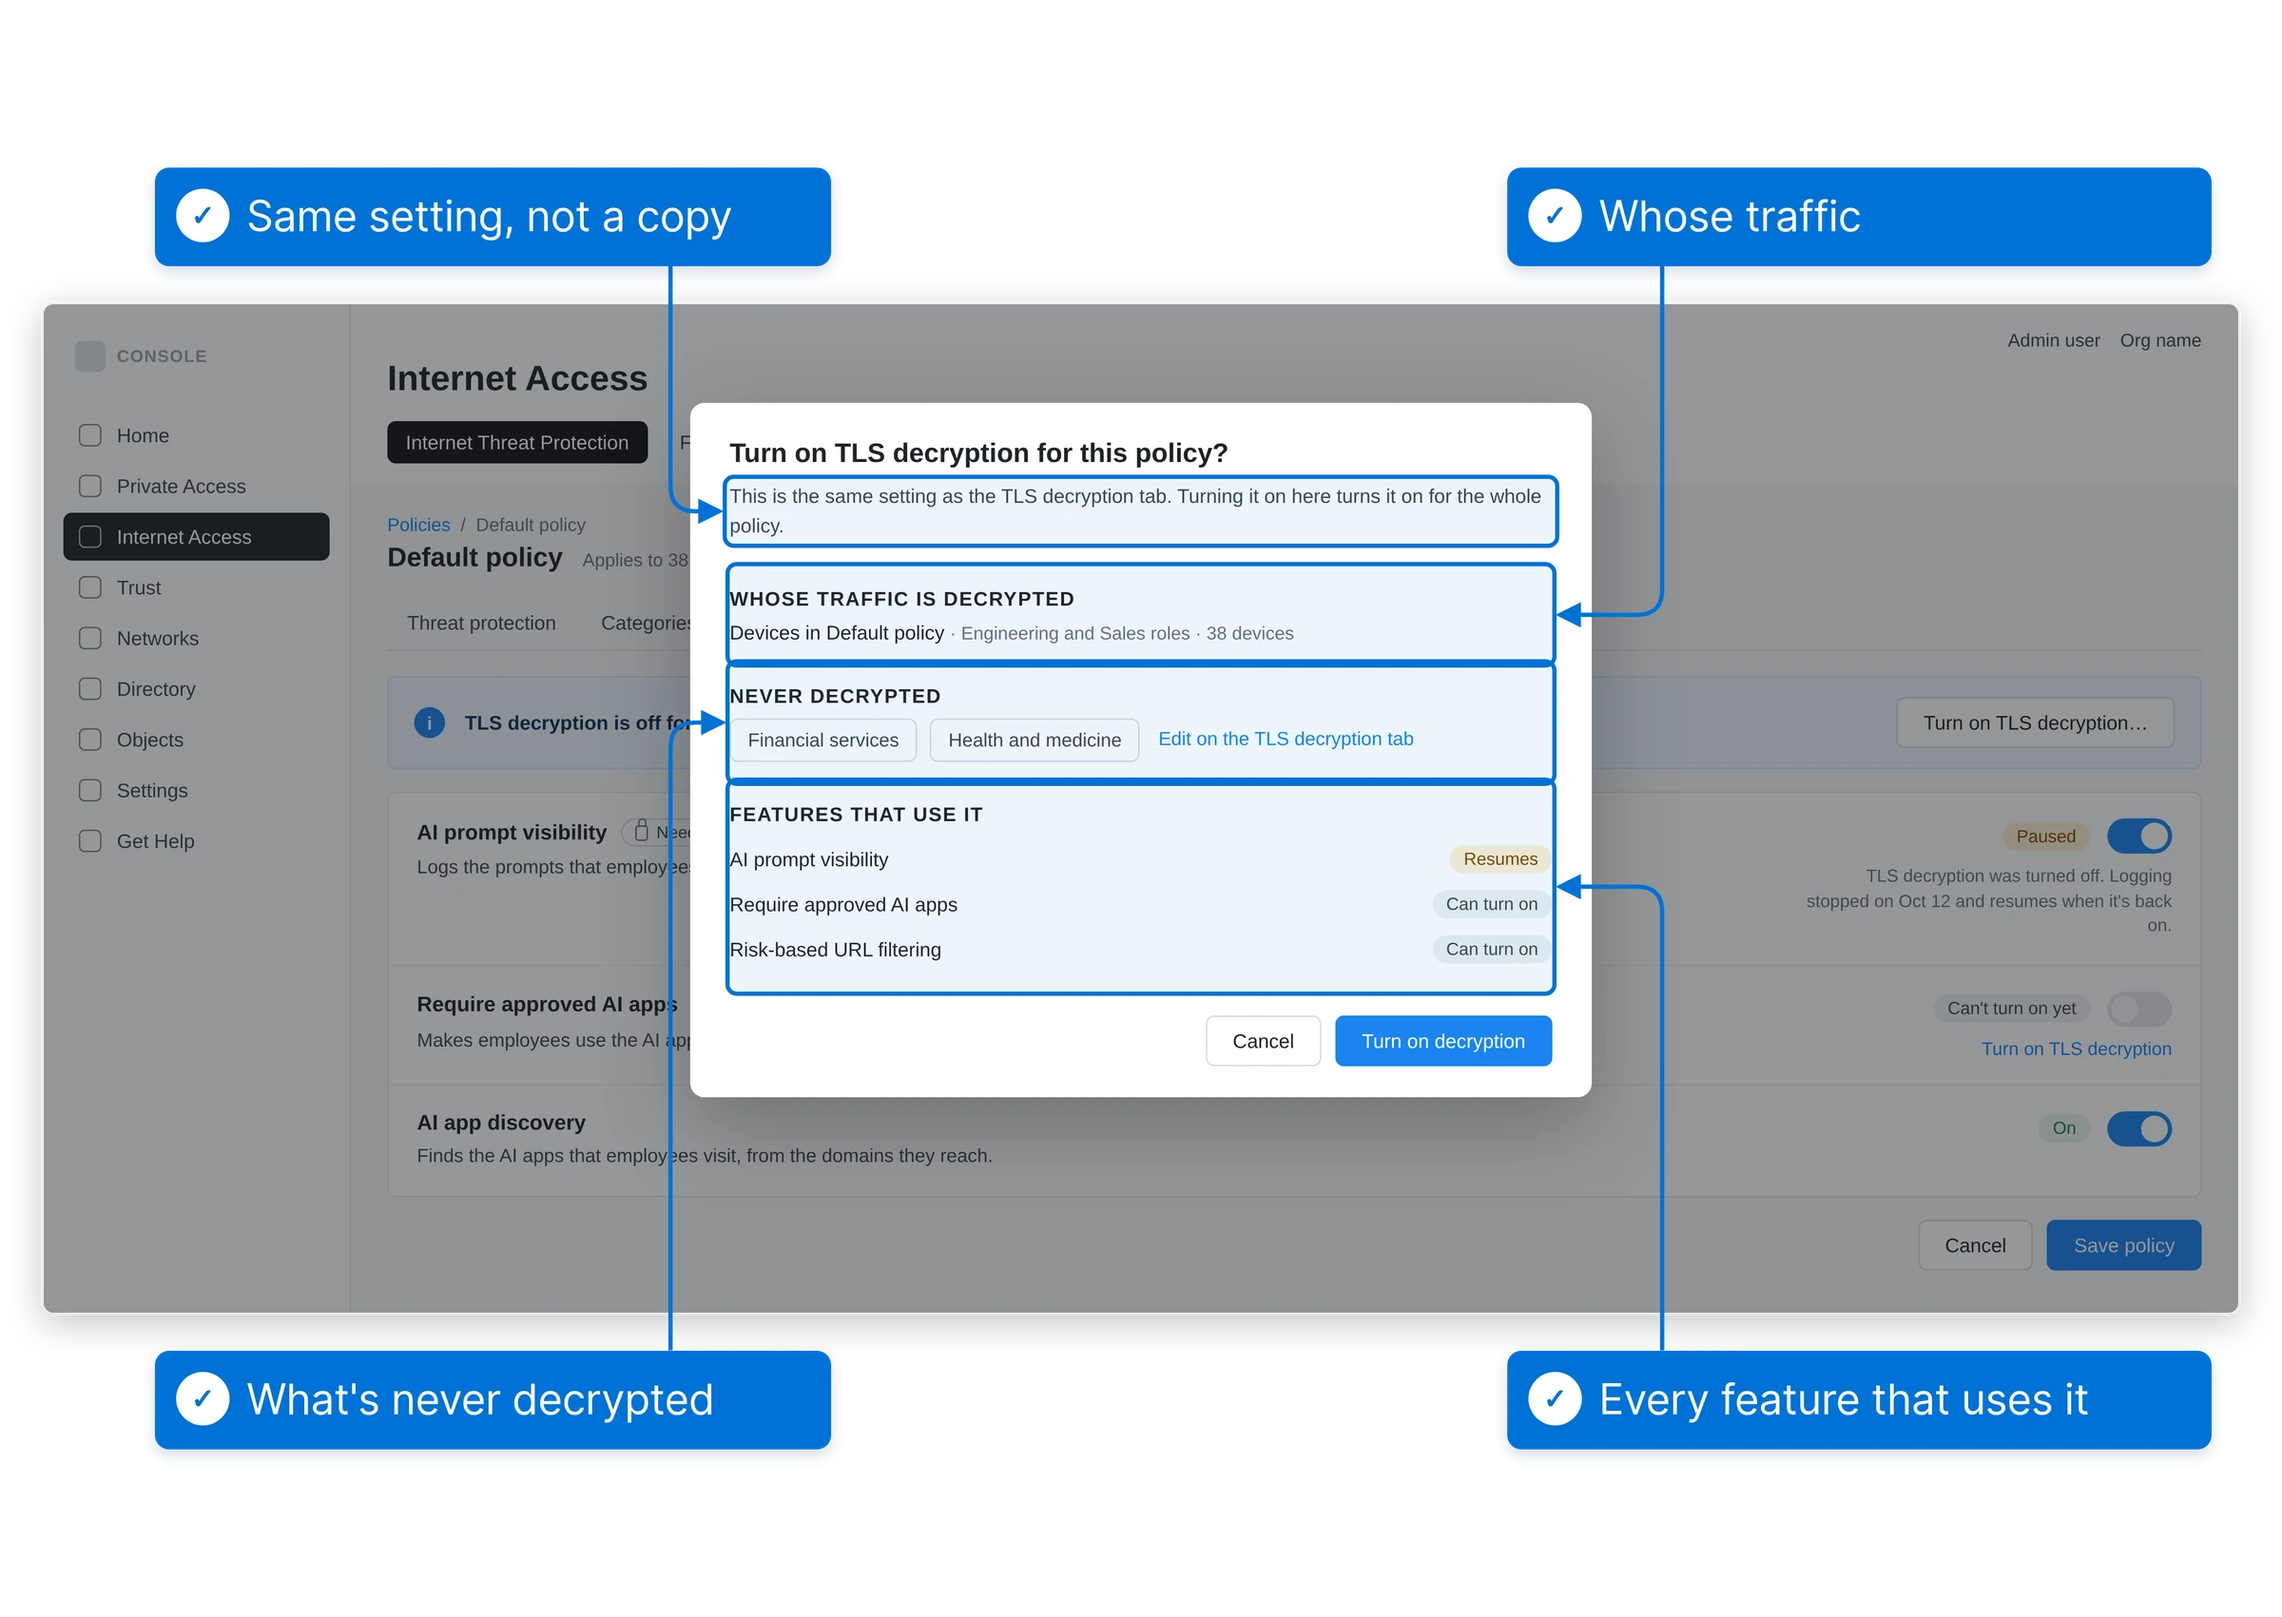
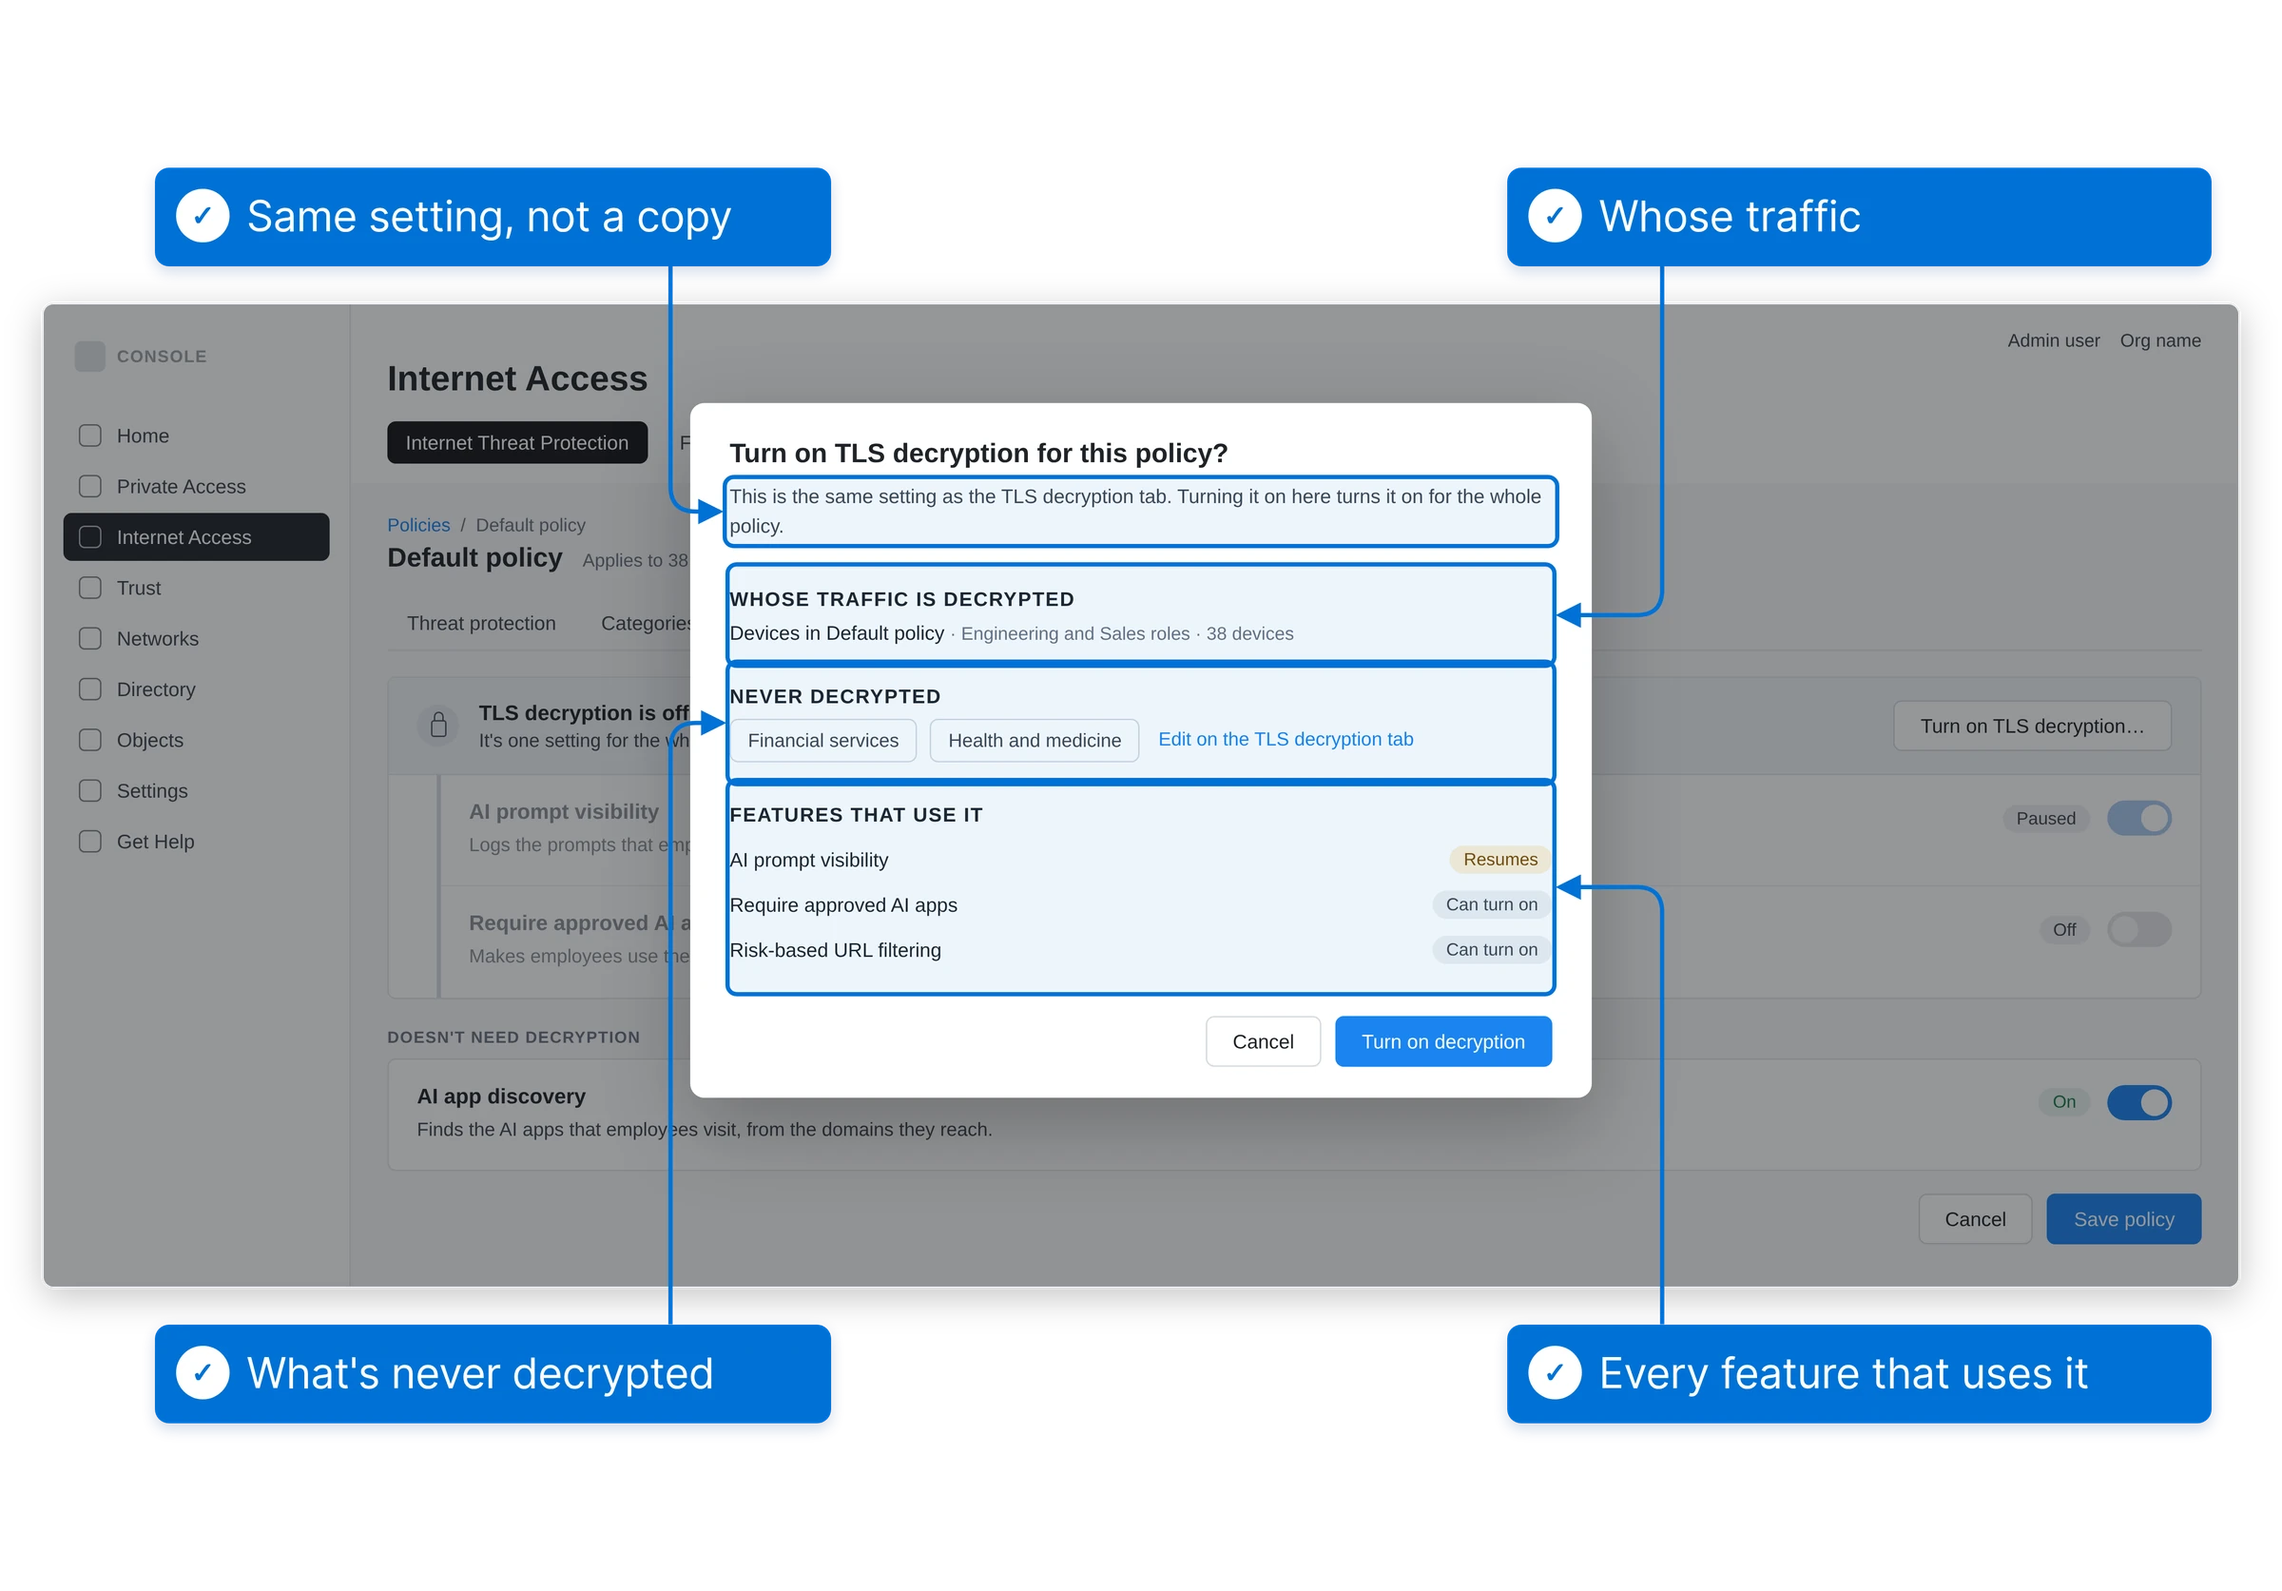
Show TLS decryption once, for the whole policy, in the AI tab prototype
Claude-Session: https://claude.ai/code/session_01LSpc9GfWinUYVZHRac1AsR

diff --git a/docs/content-design/ai-prompt-visibility.md b/docs/content-design/ai-prompt-visibility.md
@@ -70,11 +70,11 @@ Both designs are still prototypes. The product team picked the second direction 
 
 More features needed decryption, including one that has nothing to do with AI. The team also wanted every AI feature in one tab, which would separate them from decryption again.
 
-So I let each feature say what it needs, wherever it lives.
+So the AI tab shows decryption once, as one setting for the whole policy, with the features that need it grouped underneath.
 
-![A prototype of the AI tab in an Internet Threat Protection policy, with TLS decryption turned off. Callouts point to the banner that says decryption is off, the paused feature that says why it stopped, and the feature that says what it needs.](/img/content-design/ai-tab-annotated.webp)
+![A prototype of the AI tab in an Internet Threat Protection policy, with TLS decryption turned off. Callouts point to the one decryption setting for the whole policy, the two features that wait for it, and a feature that doesn't need it.](/img/content-design/ai-tab-annotated.webp)
 
-<p className="shot-cap">Decryption is off. Each feature says what that means for it.</p>
+<p className="shot-cap">Decryption is off, so both features that need it wait.</p>
 
 ![A confirmation dialog titled "Turn on TLS decryption for this policy?". Callouts point to the line that says it's the same setting, whose traffic is decrypted, what's never decrypted, and every feature that uses it.](/img/content-design/ai-tab-confirm-annotated.webp)
 
